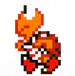
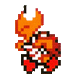
added koopa

diff --git a/index.js b/index.js
@@ -18,6 +18,7 @@
 	var bgShift = 0;
 	
 	var block = new bto.Sprite({ position: { x: 5, y: 5 }, size: { width: 20*3, height: 34*3 }, zoom: 3, keyFrameCount: 3 });
+	var koopa = new bto.Sprite({ position: { x: 400, y: 370 }, size: { width: 75, height: 76 }, zoom: 1, keyFrameCount: 1 });
 	
     return;
 
@@ -42,6 +43,7 @@
 		luigiImage = loadImage("images/luigi_sprite.png");
 		
 		block.image = luigiImage;
+		koopa.image = loadImage("images/koopa_troopa.png");
     }
 	
 	function loadImage(src)
@@ -145,7 +147,9 @@
 */
 //		if (block.hasMoved())
 		
-		drawSprite(block);
+		block.drawSprite(context);
+		
+		koopa.drawSprite(context);
 		
 		block.resetMoved();
 		window.requestAnimationFrame(animate);
